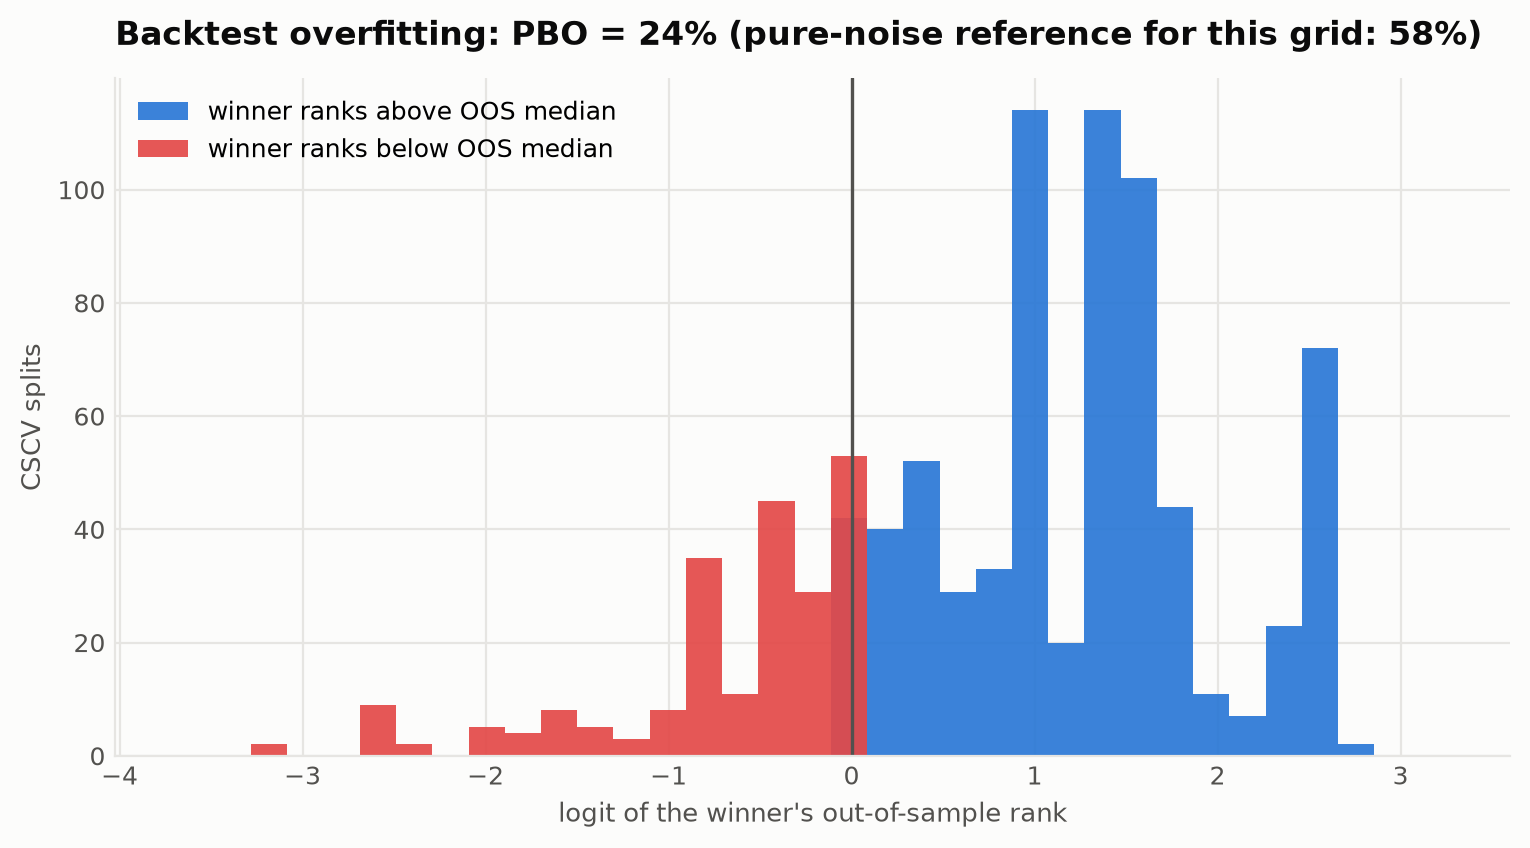
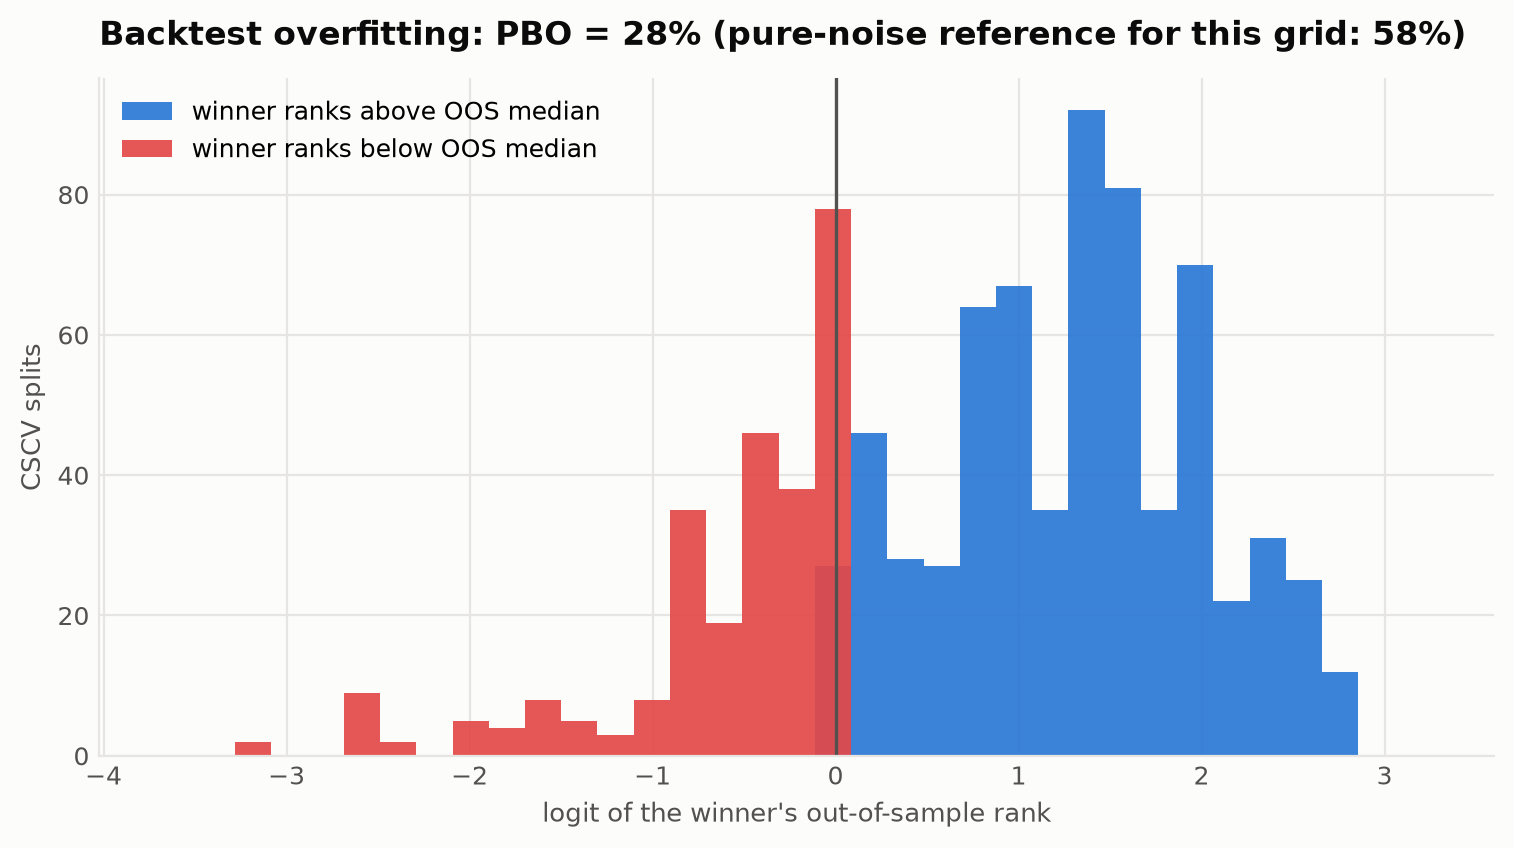
Make the synthetic market bit-identical across machines
CI's docs check exposed that the generated prices differed between the
sandbox and the runner: the generator used '@' for the factor and basket
products, which dispatches to BLAS, and OpenBLAS and MKL do not agree to
the last bit. That changed the data fingerprint and every downstream
number between machines, so 'same seed, same prices, on any machine' was
not true. The factor-to-asset and basket products are now fixed-order
elementwise sums, and the regime chain's stationary distribution is a
pure-Python power iteration instead of np.linalg.eig.

The README check's tolerance is now derived only from printed precision:
the last printed digit may move by three units, nothing else. The 2%
relative slack is gone -- a one-percent move in a tracking error is a
real change, not float noise. README wording now states exactly what is
reproducible where: prices bit for bit everywhere, results bit for bit on
one machine, results to printed precision across machines.

diff --git a/scripts/build_docs.py b/scripts/build_docs.py
@@ -117,37 +117,53 @@ _NUMBER = re.compile(r"-?\d[\d,]*(?:\.\d+)?(?:e[-+]?\d+)?")
 _CODE = re.compile(r"`[^`]*`")
 
 
-def _skeleton_and_numbers(block: str) -> tuple[str, list[float]]:
+def _decimals(token: str) -> int:
+    """How many decimal places a printed number carries."""
+    if "e" in token.lower():
+        return 0
+    return len(token.split(".")[1]) if "." in token else 0
+
+
+def _skeleton_and_numbers(block: str) -> tuple[str, list[tuple[float, int]]]:
     """Split a block into its non-numeric skeleton and the numbers it quotes.
 
-    Numbers inside backticks (hashes, fingerprints, run ids) are part of the
-    skeleton -- they are identifiers, and an identifier that changed is stale.
+    Each number is returned with the precision it was printed at. Numbers inside
+    backticks (hashes, fingerprints, run ids) are part of the skeleton -- they
+    are identifiers, and an identifier that changed is stale.
     """
-    numbers: list[float] = []
+    numbers: list[tuple[float, int]] = []
+
+    def capture(match: re.Match[str]) -> str:
+        token = match.group()
+        numbers.append((float(token.replace(",", "")), _decimals(token)))
+        return "#"
+
     pieces: list[str] = []
     cursor = 0
     for code in _CODE.finditer(block):
-        pieces.append(
-            _NUMBER.sub(
-                lambda m: (numbers.append(float(m.group().replace(",", ""))), "#")[1], block[cursor : code.start()]
-            )
-        )
+        pieces.append(_NUMBER.sub(capture, block[cursor : code.start()]))
         pieces.append(code.group())
         cursor = code.end()
-    pieces.append(_NUMBER.sub(lambda m: (numbers.append(float(m.group().replace(",", ""))), "#")[1], block[cursor:]))
+    pieces.append(_NUMBER.sub(capture, block[cursor:]))
     return "".join(pieces), numbers
 
 
-def tables_match(committed: str, generated: str, *, rel: float = 0.02, abs_tol: float = 0.02) -> tuple[bool, str]:
+def tables_match(committed: str, generated: str, *, last_digit_units: float = 3.0) -> tuple[bool, str]:
     """Do two results blocks say the same thing?
 
     The skeleton -- every word, every identifier, the strategy ordering, the
     verdict's clauses -- must match exactly. A changed word means the conclusion
-    changed. The numbers may differ by a small tolerance, because an interior
-    point solver on a different CPU and BLAS legitimately lands a few ULPs away,
-    and a README that fails CI because 0.0830 became 0.0831 on another machine
-    is a check nobody keeps. A number that moves by more than the tolerance is a
-    real change and fails.
+    changed.
+
+    Numbers get a tolerance derived purely from the precision they were printed
+    at: the last printed digit may move by a few units, the rest must hold. So
+    "5.73%" tolerates 5.76 but not 5.79, "0.083" tolerates 0.086, and a rank
+    statistic printed as "24%" tolerates 27. No relative slack: a one-percent
+    move in a tracking error is a real change, not float noise. This is the honest amount of slack: a different CPU and
+    BLAS legitimately lands an interior-point solve a few ULPs away, which
+    re-orders near-tied configurations and wobbles a rank-based statistic by a
+    point or two, while a real change in a result still moves the digits that
+    are meant to be read.
     """
     skeleton_a, numbers_a = _skeleton_and_numbers(committed)
     skeleton_b, numbers_b = _skeleton_and_numbers(generated)
@@ -156,11 +172,11 @@ def tables_match(committed: str, generated: str, *, rel: float = 0.02, abs_tol: 
     if len(numbers_a) != len(numbers_b):
         return False, f"{len(numbers_a)} numbers committed, {len(numbers_b)} generated"
     worst = 0.0
-    for a, b in zip(numbers_a, numbers_b, strict=True):
-        limit = max(abs_tol, rel * max(abs(a), abs(b)))
+    for (a, decimals), (b, _) in zip(numbers_a, numbers_b, strict=True):
+        limit = last_digit_units * 10.0 ** (-decimals)
         gap = abs(a - b)
         worst = max(worst, gap)
-        if gap > limit:
+        if gap > limit + 1e-12:
             return False, f"a number moved from {a:g} to {b:g} (tolerance {limit:g})"
     return True, f"largest numeric deviation {worst:g}"
 

diff --git a/etflab/data/synthetic.py b/etflab/data/synthetic.py
@@ -197,11 +197,40 @@ def _standardised_t(rng: np.random.Generator, df: float, size: tuple[int, ...]) 
     return raw / np.sqrt(df / (df - 2.0))
 
 
+def _stationary_distribution(transition: np.ndarray, iterations: int = 2_000) -> np.ndarray:
+    """Stationary distribution of a small Markov chain by power iteration.
+
+    Written with explicit loops rather than ``np.linalg.eig`` on purpose: LAPACK
+    results differ in the last bit between machines, and this value feeds a
+    random draw. A generator whose output depends on which BLAS is installed is
+    not reproducible, whatever its seed says.
+    """
+    n_states = transition.shape[0]
+    pi = [1.0 / n_states] * n_states
+    for _ in range(iterations):
+        pi = [sum(pi[i] * float(transition[i, j]) for i in range(n_states)) for j in range(n_states)]
+    total = sum(pi)
+    return np.array([p / total for p in pi])
+
+
+def _accumulate(matrix: np.ndarray, weights: np.ndarray) -> np.ndarray:
+    """``matrix @ weights`` as a fixed-order elementwise sum, never a BLAS call.
+
+    ``@`` dispatches to whichever BLAS numpy was built against, and OpenBLAS,
+    MKL and Accelerate do not agree to the last bit. For a research generator
+    the last bit matters: it changes the data fingerprint, and with it every
+    downstream number, between a laptop and a CI runner. A few columns of
+    elementwise multiply-add are the same speed here and identical everywhere.
+    """
+    out = np.zeros(matrix.shape[0], dtype=float)
+    for k in range(matrix.shape[1]):
+        out += matrix[:, k] * float(weights[k])
+    return out
+
+
 def _simulate_regimes(rng: np.random.Generator, n: int) -> np.ndarray:
     """Sample a Markov regime path, starting from the chain's stationary state."""
-    eigvals, eigvecs = np.linalg.eig(TRANSITION.T)
-    stationary = np.real(eigvecs[:, np.argmin(np.abs(eigvals - 1.0))])
-    stationary = stationary / stationary.sum()
+    stationary = _stationary_distribution(TRANSITION)
     states = np.empty(n, dtype=np.int8)
     current = int(rng.choice(len(REGIME_NAMES), p=stationary))
     for t in range(n):
@@ -303,7 +332,9 @@ def generate_market(spec: SyntheticSpec) -> PricePanel:
     if loadings["ILLIQUIDITY"].abs().sum() > 0:
         raise AssertionError("ILLIQUIDITY must have zero loading on every candidate asset.")
 
-    systematic = factor_returns.to_numpy() @ loadings.to_numpy().T  # (n, n_assets)
+    factor_matrix = factor_returns.to_numpy(dtype=float)
+    loading_matrix = loadings.to_numpy(dtype=float)
+    systematic = np.column_stack([_accumulate(factor_matrix, loading_matrix[i]) for i in range(len(spec.assets))])
     idio_vol_daily = np.array([IDIO_VOL[a] for a in spec.assets]) / np.sqrt(TRADING_DAYS)
     idio = _standardised_t(idio_rng, spec.tail_df, (n, len(spec.assets))) * idio_vol_daily
     asset_returns = pd.DataFrame(systematic + idio, index=dates, columns=list(spec.assets))
@@ -314,7 +345,7 @@ def generate_market(spec: SyntheticSpec) -> PricePanel:
         raise ValueError("No ground-truth weights are defined for the requested asset list.")
     w_true = w_true / w_true.sum()  # renormalise if the caller used a subset
 
-    spanned = asset_returns.to_numpy() @ w_true.to_numpy()
+    spanned = _accumulate(asset_returns.to_numpy(dtype=float), w_true.to_numpy(dtype=float))
     unspanned_factor = factor_returns["ILLIQUIDITY"].to_numpy()
     target_idio = _standardised_t(target_rng, spec.tail_df, (n,)) * (spec.target_idio_vol / np.sqrt(TRADING_DAYS))
     unspanned = unspanned_factor + target_idio

diff --git a/tests/test_docs.py b/tests/test_docs.py
@@ -35,6 +35,20 @@ def test_last_digit_drift_is_tolerated():
     assert ok
 
 
+def test_a_rank_statistic_may_wobble_by_a_couple_of_points():
+    """PBO is a rank count over near-tied configurations; a different BLAS
+    re-orders a few ties. Printed as an integer percent, it gets integer slack."""
+    ok, _ = build_docs.tables_match(BLOCK, BLOCK.replace("**24%**", "**26%**"))
+    assert ok
+    ok, reason = build_docs.tables_match(BLOCK, BLOCK.replace("**24%**", "**31%**"))
+    assert not ok and "moved from 24 to 31" in reason
+
+
+def test_tolerance_scales_with_printed_precision():
+    ok, _ = build_docs.tables_match(BLOCK, BLOCK.replace("5.73%", "5.79%"))
+    assert not ok, "six units in the last printed digit is a real move"
+
+
 def test_a_material_numeric_change_fails():
     ok, reason = build_docs.tables_match(BLOCK, BLOCK.replace("5.73%", "6.50%"))
     assert not ok

diff --git a/README.md b/README.md
@@ -2,7 +2,7 @@
 
 [![CI](https://github.com/khuper/etf-replication-demo/actions/workflows/ci.yml/badge.svg)](https://github.com/khuper/etf-replication-demo/actions/workflows/ci.yml)
 ![Python 3.11+](https://img.shields.io/badge/python-3.11%2B-blue.svg)
-![Tests](https://img.shields.io/badge/tests-230-brightgreen.svg)
+![Tests](https://img.shields.io/badge/tests-232-brightgreen.svg)
 ![License: MIT](https://img.shields.io/badge/License-MIT-yellow.svg)
 
 **Can a basket of liquid ETFs replicate a harder-to-access index — and does the optimisation actually earn its keep against a naive alternative?**
@@ -39,11 +39,11 @@ That command runs the full workflow — data quality gates, a nine-strategy hors
 
 **Verdict.** Best out-of-sample tracking error: shrunk at 5.73% annualised, versus 7.52% for equal_weight. The market's irreducible tracking error -- the part no long-only basket of these assets can remove -- is 5.48%. shrunk therefore captures 88% of the available improvement over equal_weight, and sits +0.25% above the floor. That gap is statistically real: the 95% bootstrap interval for the tracking-error difference is [-2.19%, -1.44%] and Diebold-Mariano rejects equal expected squared tracking error (p = < 1e-16). Correcting for having run 9 strategies, the best result survives the multiple-comparison correction (Hansen SPA p = < 0.0005; White Reality Check p = < 0.0005). The simplest strategy that cannot be statistically separated from the winner is tracking (5.73%). On this evidence the extra machinery in shrunk is not doing measurable work.
 
-**Overfitting.** Probability of backtest overfitting across 54 configurations: **24%**, against a matched pure-noise reference of 58%. Moderate: selection carries real risk.
+**Overfitting.** Probability of backtest overfitting across 54 configurations: **28%**, against a matched pure-noise reference of 58%. Moderate: selection carries real risk.
 
 **Consistency.** Weight error decays as T^-0.41 (parametric rate would be T^-0.50), reaching L1 = 0.083 at 8,064 observations. The out-of-sample cost of that estimation error falls to +0.3bp of tracking error above the true portfolio. The estimator is consistent, but the weights are far less identified than the fit is: collinear candidates leave the objective nearly flat in the directions that separate them, so a large weight error buys almost no extra tracking error. That is why weight stability and turnover get their own columns in the horse race.
 
-<sub>Generated by `scripts/build_docs.py` from run `d9e91966b3762858` on synthetic data (fingerprint `8a1a5c8e7582afed`), 2,887 out-of-sample days. Reproduce with `make study`.</sub>
+<sub>Generated by `scripts/build_docs.py` from run `d9e91966b3762858` on synthetic data (fingerprint `8cd599a2ecc5a9c3`), 2,887 out-of-sample days. Reproduce with `make study`.</sub>
 <!-- RESULTS-TABLE:END -->
 
 ![Out-of-sample tracking error by strategy](docs/figures/horse_race.png)
@@ -56,7 +56,7 @@ That command runs the full workflow — data quality gates, a nine-strategy hors
 
 The shipped experiment runs on a **simulated market**, not downloaded prices. That is a design decision with two reasons behind it, and it is stated up front because a reader deserves to judge it rather than discover it:
 
-1. **It reproduces.** Same seed, same numbers, on any machine, forever. CI runs the entire research pipeline on every commit and checks the results digest — a claim that would be impossible against a live vendor feed, and a repo whose headline numbers the reader cannot regenerate is a screenshot.
+1. **It reproduces.** Same seed, same prices, bit for bit, on any machine — the generator deliberately avoids BLAS and LAPACK, whose last-bit disagreements between a laptop and a CI runner would otherwise change the data fingerprint. Downstream results are bit-identical on one machine (`etf-lab verify` proves it) and agree to the last printed digit across machines (CI checks the README against a fresh run). A claim like that is impossible against a live vendor feed, and a repo whose headline numbers the reader cannot regenerate is a screenshot.
 2. **The answer is known.** The target is constructed as `w_true · r_assets` plus a component no candidate asset spans. So the population-optimal feasible portfolio *is* `w_true`, the minimum attainable tracking error *is* the volatility of the unspanned part, and an estimator can be scored on **whether it recovers the right answer** — not merely on whether it fits.
 
 That second point is what real data cannot give you, and it is the difference between "this model tracked well on one history" and "this model is consistent":
@@ -157,7 +157,7 @@ Every run writes a manifest containing the semantic config hash, a fingerprint o
 etf-lab verify outputs/<run-id>
 ```
 
-Two runs sharing a `run_id` are the same experiment. If their results digests differ, **the code changed the answer** — which is either a fix or a regression, and either way it should be loud rather than silent. CI runs that check on every commit, plus a second independent process to catch anything that leaked a wall clock or an unseeded generator into a research result.
+Two runs sharing a `run_id` are the same experiment. If their results digests differ, **the code changed the answer** — which is either a fix or a regression, and either way it should be loud rather than silent. CI runs that check on every commit in a fresh process, which also catches anything that leaked a wall clock or an unseeded generator into a research result. Across *different* machines the digest is not expected to match — interior-point solvers and BLAS libraries disagree in the last bit — so the cross-machine check is the README one: every published number must agree with a fresh run to the precision it is printed at.
 
 ```bash
 etf-lab runs                         # everything in the registry
@@ -234,7 +234,7 @@ make figures        # regenerate docs/figures and the results table above
 make verify         # re-run the latest study and check the digest
 ```
 
-230 tests, no network required. The suite is structured around the claims rather than the modules: [`test_lookahead.py`](tests/test_lookahead.py) defends point-in-time correctness, [`test_reproducibility.py`](tests/test_reproducibility.py) defends run identity and determinism, [`test_inference.py`](tests/test_inference.py) validates the statistics by simulation, [`test_governance.py`](tests/test_governance.py) proves the kill switch trips when it should and never looks ahead, and [`test_backtest.py`](tests/test_backtest.py) pins the engine arithmetic against hand computations.
+232 tests, no network required. The suite is structured around the claims rather than the modules: [`test_lookahead.py`](tests/test_lookahead.py) defends point-in-time correctness, [`test_reproducibility.py`](tests/test_reproducibility.py) defends run identity and determinism, [`test_inference.py`](tests/test_inference.py) validates the statistics by simulation, [`test_governance.py`](tests/test_governance.py) proves the kill switch trips when it should and never looks ahead, and [`test_backtest.py`](tests/test_backtest.py) pins the engine arithmetic against hand computations.
 
 Further reading: [`docs/methodology.md`](docs/methodology.md) for the walk-forward protocol and the estimators, and [`docs/decisions.md`](docs/decisions.md) for the design choices and what was rejected.
 
